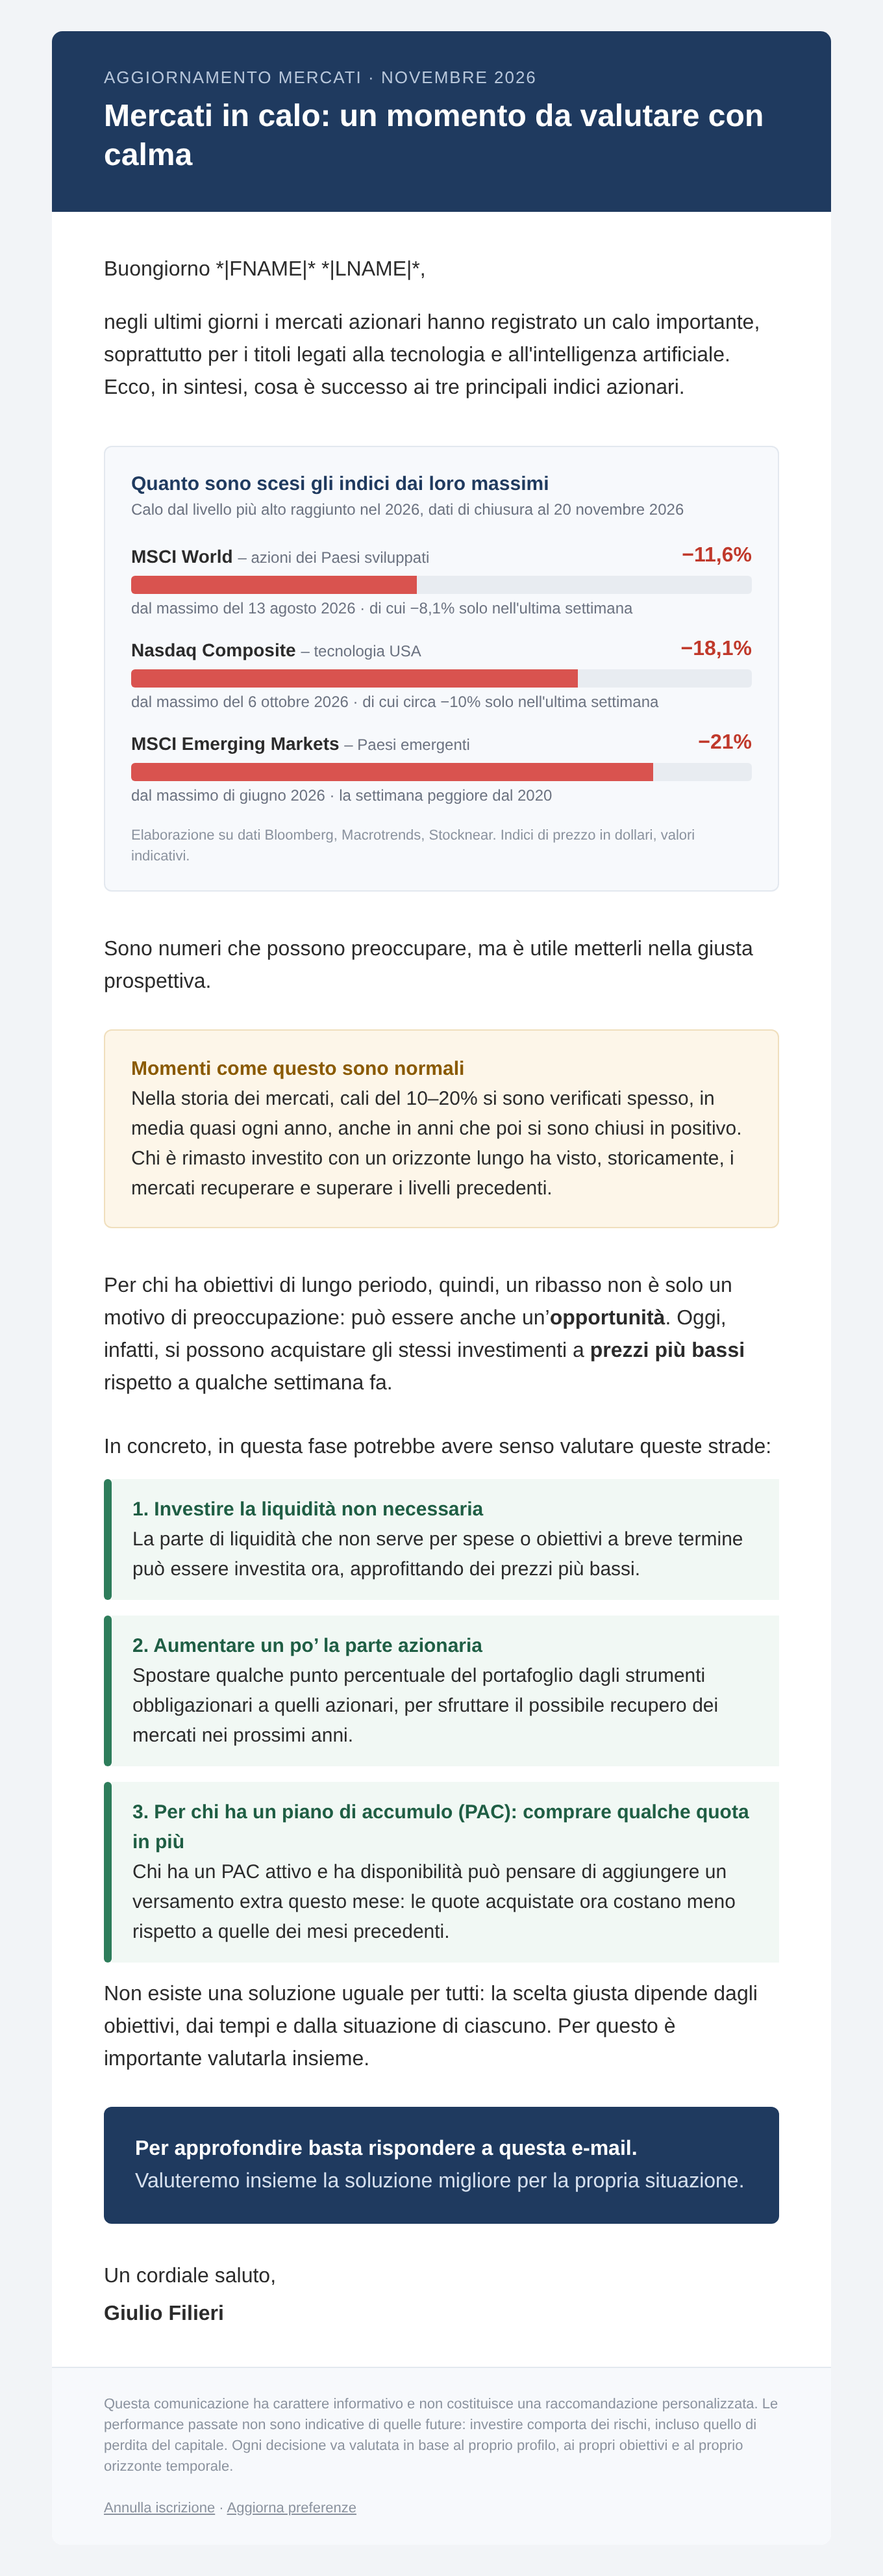
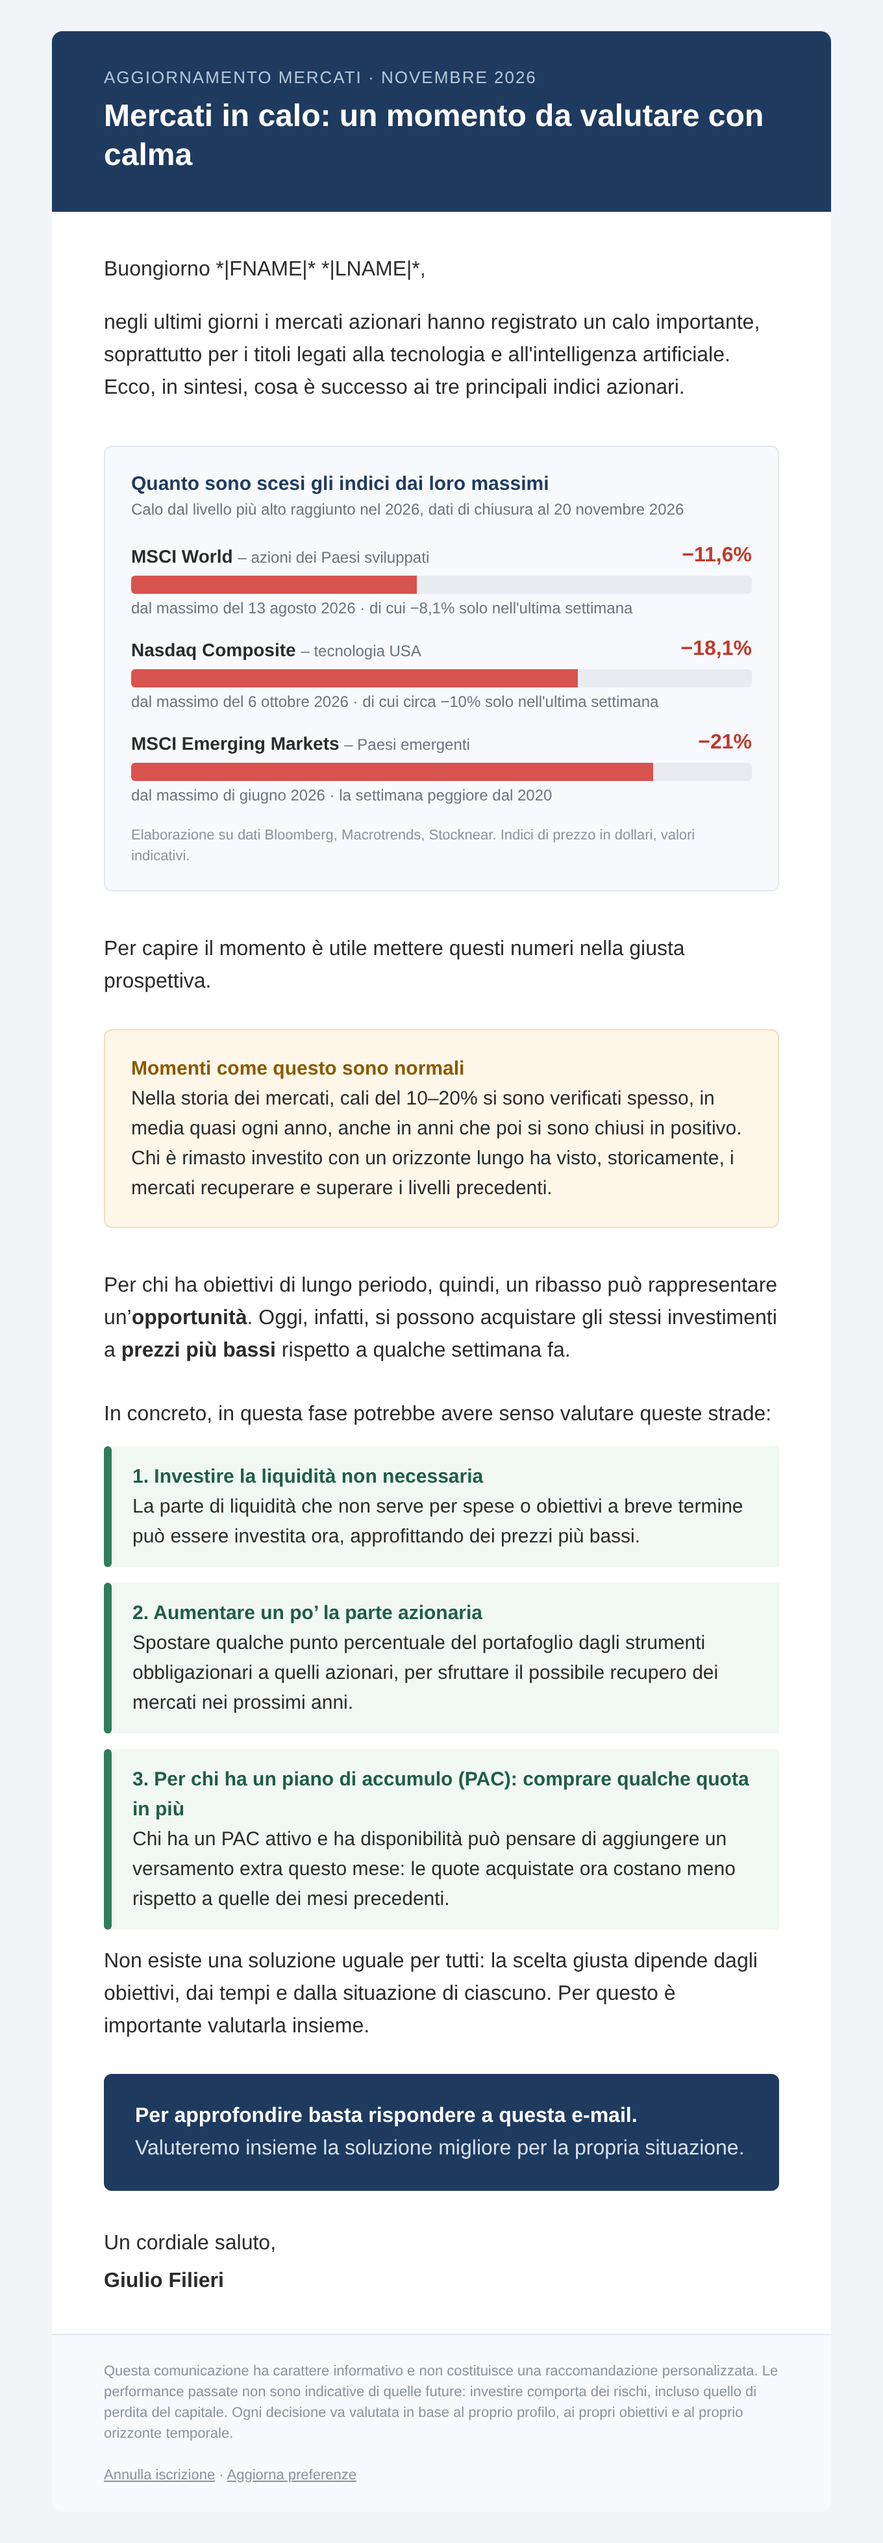
Email: remove references to worry about the decline
Claude-Session: https://claude.ai/code/session_01VXFpsKojmaAY1dygc73AeT

diff --git a/email-mailchimp/2026-11-mercati-opportunita.html b/email-mailchimp/2026-11-mercati-opportunita.html
@@ -126,7 +126,7 @@ Cosa è successo agli indici azionari negli ultimi giorni e perché può essere 
     <!-- Messaggio principale -->
     <tr>
       <td class="px" style="padding:24px 40px 8px 40px;font-family:Arial,Helvetica,sans-serif;font-size:16px;line-height:25px;color:#2b2b2b;">
-        <p style="margin:0 0 16px 0;">Sono numeri che possono preoccupare, ma &egrave; utile metterli nella giusta prospettiva.</p>
+        <p style="margin:0 0 16px 0;">Per capire il momento &egrave; utile mettere questi numeri nella giusta prospettiva.</p>
       </td>
     </tr>
 
@@ -146,7 +146,7 @@ Cosa è successo agli indici azionari negli ultimi giorni e perché può essere 
 
     <tr>
       <td class="px" style="padding:24px 40px 8px 40px;font-family:Arial,Helvetica,sans-serif;font-size:16px;line-height:25px;color:#2b2b2b;">
-        <p style="margin:0 0 16px 0;">Per chi ha obiettivi di lungo periodo, quindi, un ribasso non &egrave; solo un motivo di preoccupazione: pu&ograve; essere anche un&rsquo;<strong>opportunit&agrave;</strong>. Oggi, infatti, si possono acquistare gli stessi investimenti a <strong>prezzi pi&ugrave; bassi</strong> rispetto a qualche settimana fa.</p>
+        <p style="margin:0 0 16px 0;">Per chi ha obiettivi di lungo periodo, quindi, un ribasso pu&ograve; rappresentare un&rsquo;<strong>opportunit&agrave;</strong>. Oggi, infatti, si possono acquistare gli stessi investimenti a <strong>prezzi pi&ugrave; bassi</strong> rispetto a qualche settimana fa.</p>
       </td>
     </tr>
 
